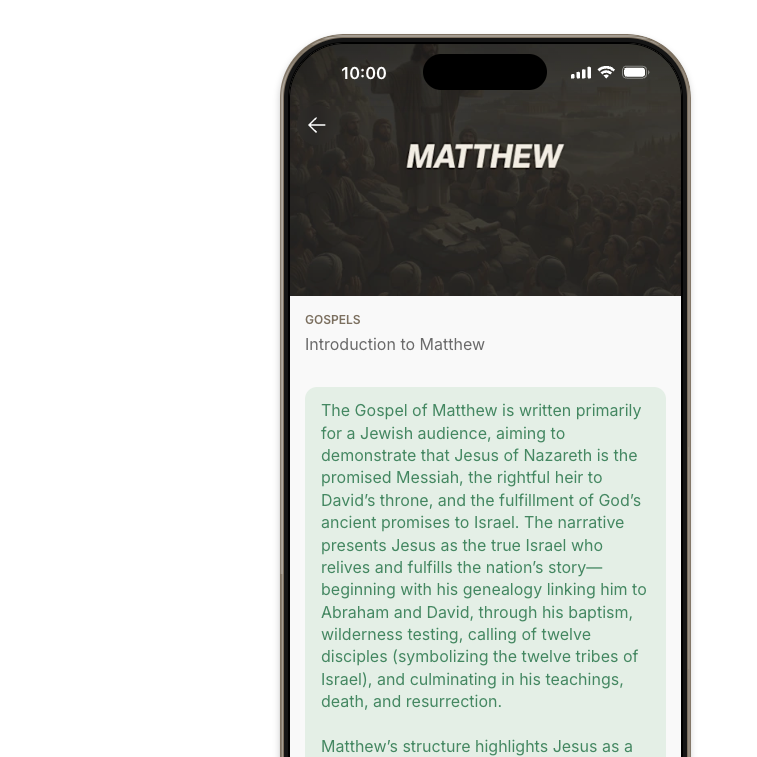
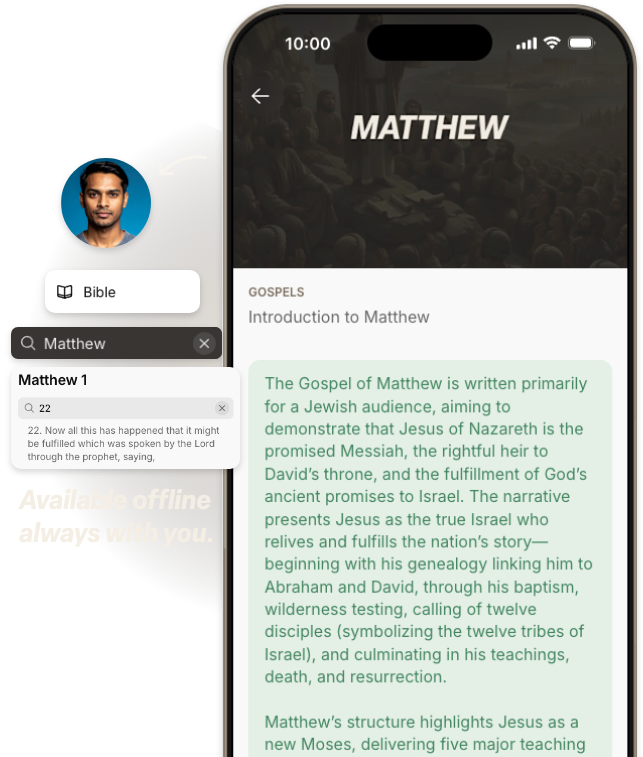
Updated all app feature images

diff --git a/index.html b/index.html
@@ -274,13 +274,16 @@
     .app-showcase-right {
       position: absolute; right: 0; top: 0; bottom: 0;
       display: flex; align-items: flex-end;
+      padding: 32px 32px 0 0;
     }
     .app-screen-img {
-      width: 400px;
+      width: 400px; height: 100%;
+      display: flex; align-items: flex-end;
       transition: opacity 0.3s ease;
     }
     .app-screen-img img {
-      width: 100%; display: block;
+      width: auto; height: 100%; max-height: 100%;
+      display: block; object-fit: contain; object-position: bottom right;
       filter: drop-shadow(0 32px 64px rgba(0,0,0,0.4));
     }
     /* Placeholder screen styles */
@@ -688,11 +691,11 @@
     @media (max-width: 860px) {
       .app-showcase-section {
         margin: 0 20px 40px;
-        padding: 48px 24px 0;
+        padding: 48px 0 0;
         display: flex; flex-direction: column;
       }
       .app-showcase-inner {
-        padding-right: 0; text-align: center;
+        padding-right: 0; text-align: center; padding: 0 24px;
       }
       .app-showcase-left {
         max-width: 100%; padding-right: 0;
@@ -702,10 +705,14 @@
       }
       .app-showcase-right {
         position: relative; top: auto; bottom: auto; right: auto;
-        display: block; margin-top: 32px; width: 100%;
+        display: block; margin-top: 32px; width: 100%; padding: 0 24px;
       }
       .app-screen-img {
         display: block; width: 100%; max-width: 100%; margin: 0 auto;
+        height: auto;
+      }
+      .app-screen-img img {
+        width: 100%; height: auto; object-fit: unset;
       }
       .carousel-dots {
         margin-top: 28px;
